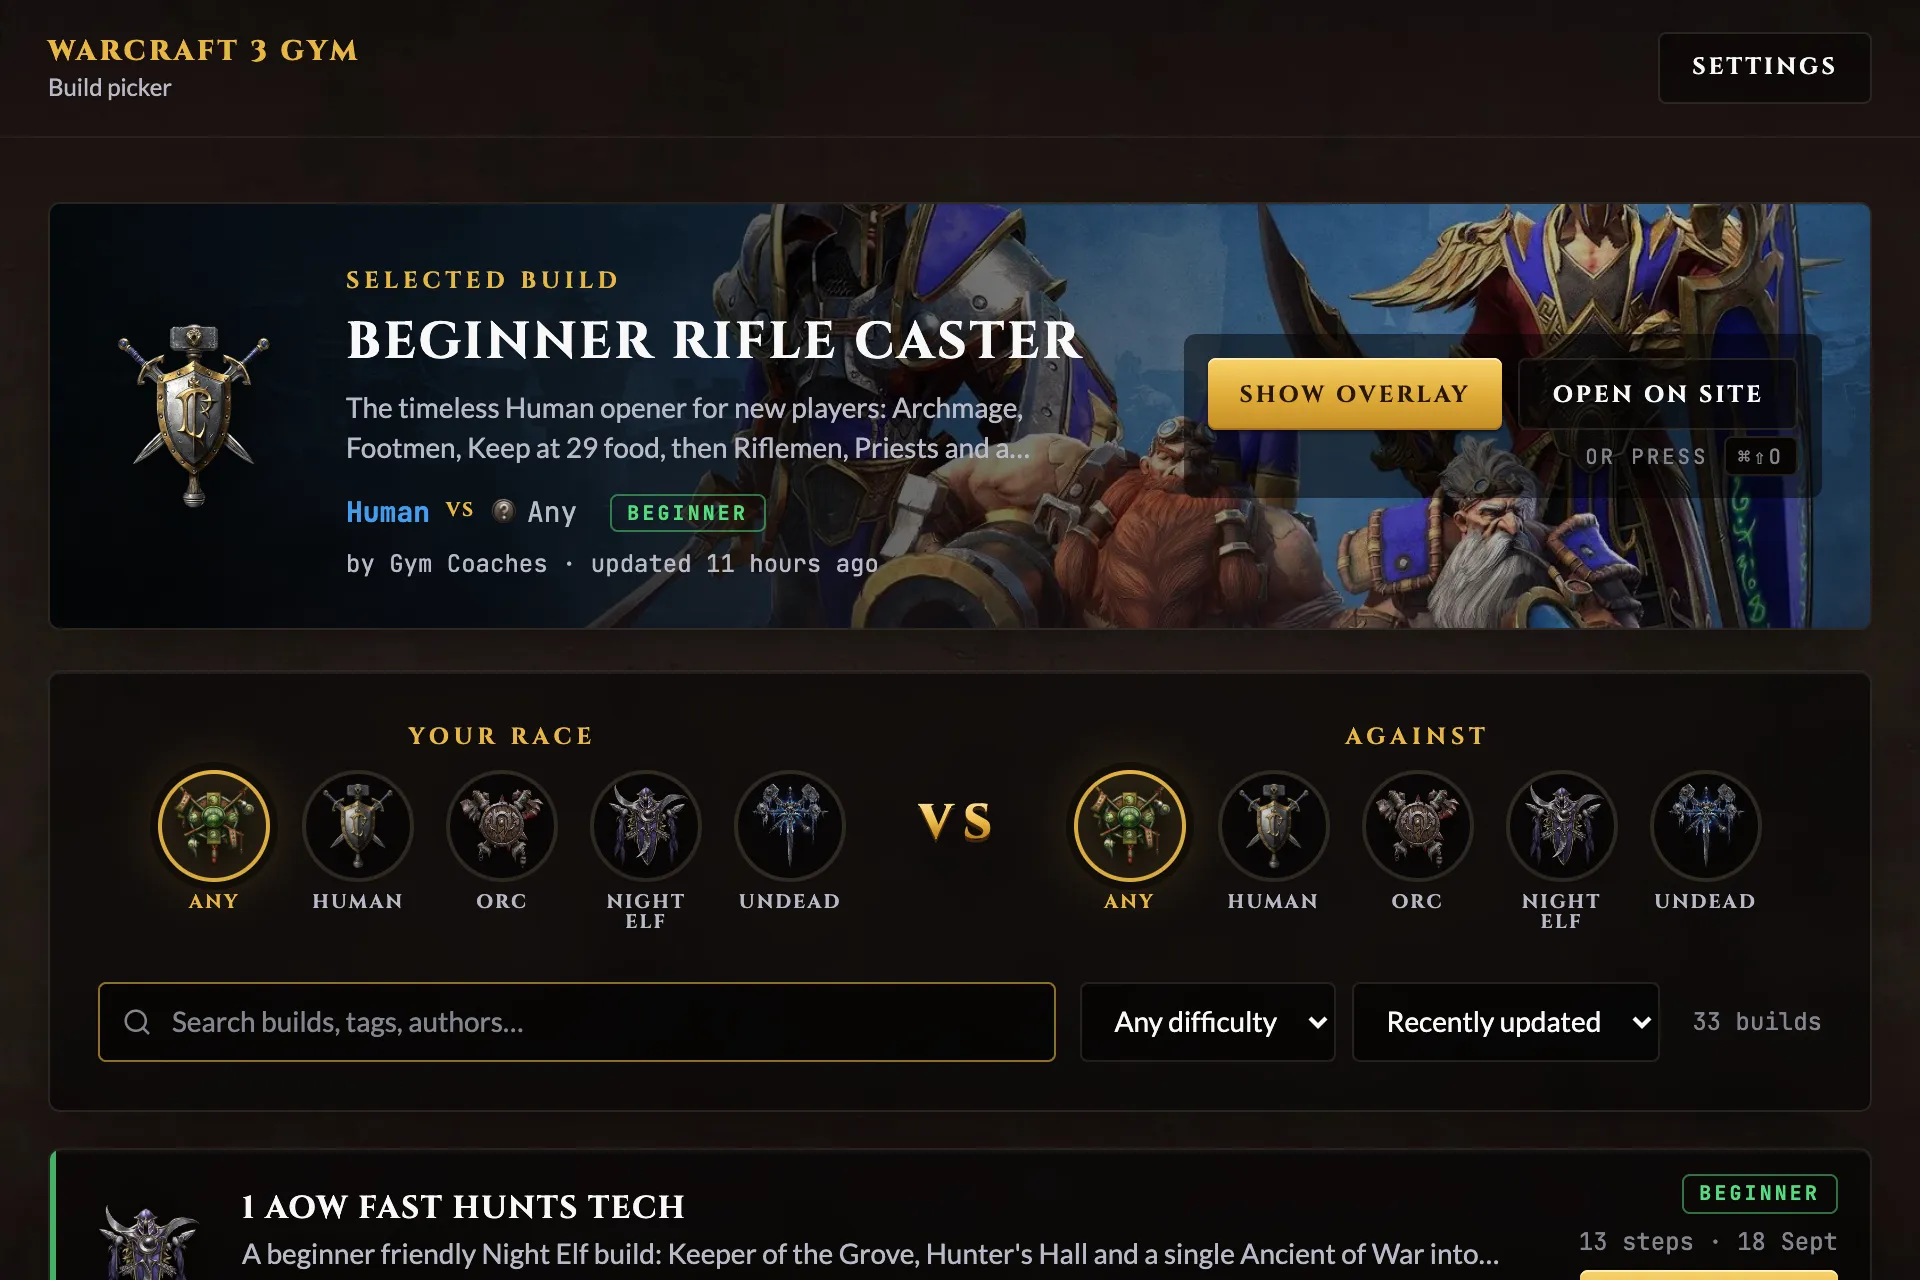
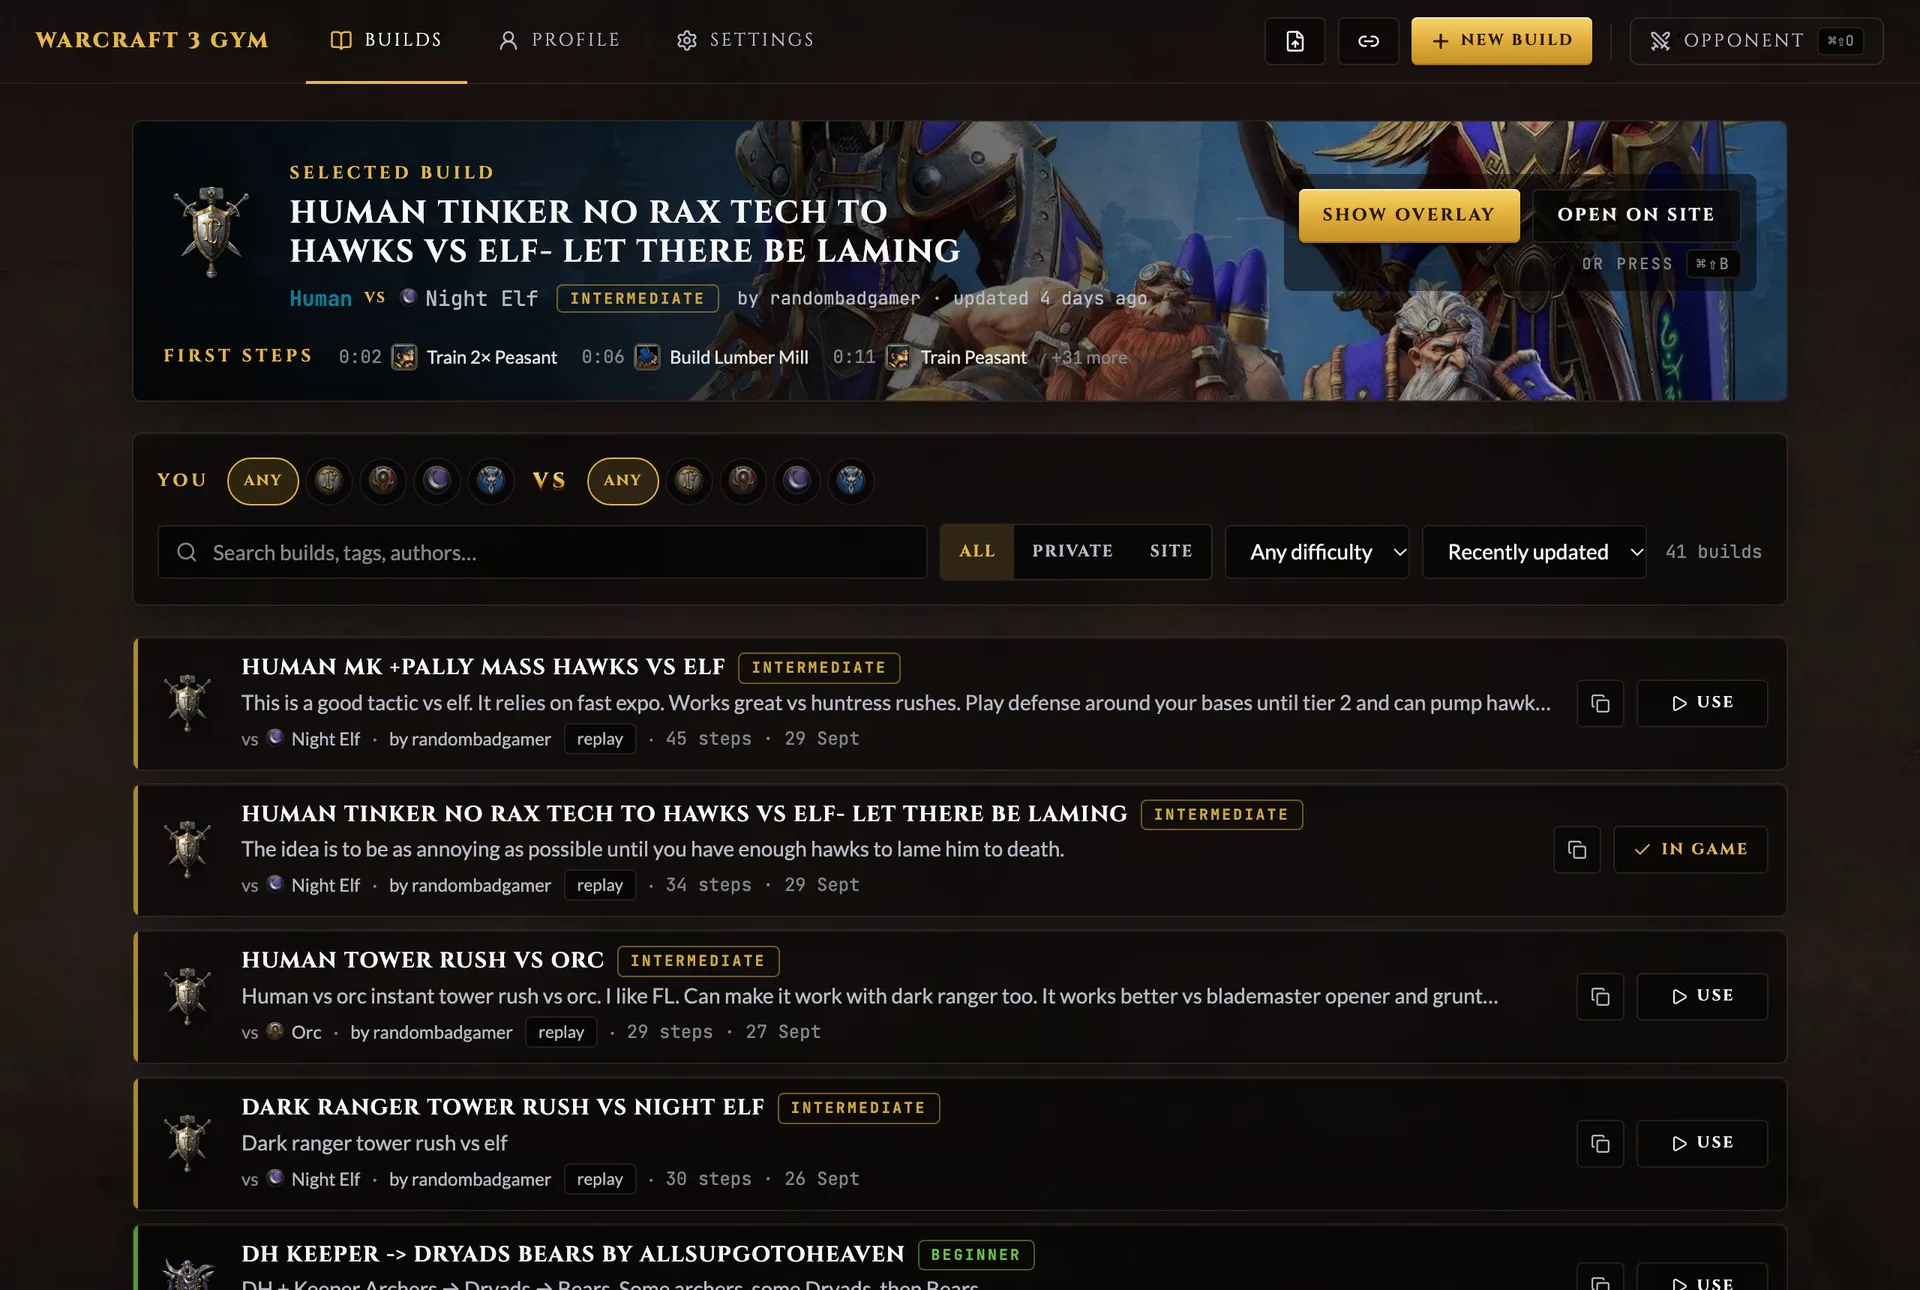
feat(overlay page): 0.6 opponent card and profile, new shortcuts and screenshots (#61)
A 'New in 0.6' section with the opponent window and the Profile tab
(screenshots from the real app, real stats under a made-up player
name), the BattleTag step, Shift+B / Shift+O in the shortcuts table,
a new picker screenshot with the tabs, and the tool card blurb.

diff --git a/src/app/(site)/tools/overlay/page.tsx b/src/app/(site)/tools/overlay/page.tsx
@@ -2,7 +2,7 @@ import type { Metadata } from "next";
 import { notFound } from "next/navigation";
 import Image from "next/image";
 import Link from "next/link";
-import { Apple, ChevronDown, Download, FileInput, Keyboard, Layers } from "lucide-react";
+import { Apple, ChevronDown, Download, FileInput, Keyboard, Layers, Swords, UserRound } from "lucide-react";
 import { Container } from "@/components/ui/Container";
 import { PageHeader } from "@/components/ui/PageHeader";
 import { ButtonLink } from "@/components/ui/Button";
@@ -14,8 +14,8 @@ export const metadata: Metadata = pageMetadata({
   path: "/tools/overlay",
   title: "Build order overlay",
   description:
-    "A desktop app that shows a Warcraft 3 Gym build order on top of Warcraft III while you play, with a clock and global shortcuts. Keep private builds and import them from a replay or a W3Champions match. Windows and macOS, beta.",
-  shareDescription: "Float any build order over the game, with a play-along clock and global shortcuts.",
+    "A desktop app that shows a Warcraft 3 Gym build order on top of Warcraft III while you play, scouts your W3Champions opponent when a 1v1 starts, and shows your own strengths and weaknesses. Private builds, replay import, global shortcuts. Windows and macOS, beta.",
+  shareDescription: "Float any build order over the game, scout your W3Champions opponent and see what to work on.",
   images: [{ url: "/og/overlay.jpg", width: 1200, height: 630 }],
 });
 
@@ -37,15 +37,31 @@ const POINTS = [
   },
 ];
 
+/** What 0.6 added: the opponent card and your profile, from public W3Champions data. */
+const SCOUTING = [
+  {
+    Icon: Swords,
+    title: "Know who you are facing",
+    body: "Set your BattleTag once. When a W3Champions 1v1 starts, the opponent window opens with a few tags to act on (wins fights, weak on this map, always opens Demon Hunter), your win chance, their form, their record against your race and on this map, their usual heroes and how they play.",
+  },
+  {
+    Icon: UserRound,
+    title: "Know your own game",
+    body: "The Profile tab turns your last two seasons into strengths and things to work on: matchups, best and worst maps, form, how you do in short and long games, your heroes and play style. Pick any race you play, Random included.",
+  },
+];
+
 const STEPS = [
   "Install the app and open it. The picker window lists every build on the site.",
   "Pick a build and click Show overlay, or press the toggle shortcut. The panel floats on top of the game.",
   "Run Warcraft III in windowed or borderless mode. Exclusive fullscreen hides every other window, including the overlay.",
   "At the match's 0:00, press play. The current step highlights as the clock runs; use next and previous if it drifts.",
+  "Optional: add your W3Champions BattleTag in Settings to get the opponent card in your 1v1s and your own Profile.",
 ];
 
 const SHORTCUTS = [
-  ["Toggle overlay", "Ctrl+Shift+O", "⌘⇧O"],
+  ["Toggle build order", "Ctrl+Shift+B", "⌘⇧B"],
+  ["Toggle opponent card", "Ctrl+Shift+O", "⌘⇧O"],
   ["Play / pause clock", "Ctrl+Shift+P", "⌘⇧P"],
   ["Reset clock", "Ctrl+Shift+R", "⌘⇧R"],
   ["Next step", "Ctrl+Shift+]", "⌘⇧]"],
@@ -81,7 +97,7 @@ export default async function OverlayPage() {
       <PageHeader
         kicker="Tools · Beta"
         title="Build order overlay"
-        lead="Stop alt-tabbing to check a build. This little app keeps the steps, food counts and clock on top of the game. Beta: expect rough edges, and tell us about them."
+        lead="Stop alt-tabbing to check a build. This little app keeps the steps, food counts and clock on top of the game, scouts your W3Champions opponent, and shows what to work on. Beta: expect rough edges, and tell us about them."
       >
         {release?.windowsInstaller ? (
           <ButtonLink href={release.windowsInstaller} size="md">
@@ -127,9 +143,9 @@ export default async function OverlayPage() {
           {/* Phones stack the picker under the game shot; wider screens tuck it over the corner */}
           <Image
             src="/overlay/picker.webp"
-            alt="The overlay's build picker window: race filters, search and the list of builds with a Use in game button on each."
+            alt="The overlay's picker window: Builds, Profile and Settings tabs, the selected build with its first steps, race filters, search and the list of builds."
             width={1920}
-            height={1280}
+            height={1290}
             sizes="(max-width: 640px) 100vw, 24rem"
             className="mt-4 h-auto w-full rounded border border-line shadow-[0_24px_60px_-12px_rgba(0,0,0,.95)] sm:absolute sm:-bottom-16 sm:right-[-3%] sm:mt-0 sm:w-[24rem]"
           />
@@ -147,6 +163,48 @@ export default async function OverlayPage() {
             </li>
           ))}
         </ul>
+
+        <section aria-labelledby="scouting-heading" className="mt-16">
+          <p className="kicker">New in 0.6</p>
+          <h2 id="scouting-heading" className="mt-2 font-display text-xl font-bold uppercase tracking-[0.06em] text-fg sm:text-2xl">
+            Scout the opponent, then your own game
+          </h2>
+          <div className="mt-6 grid items-start gap-8 lg:grid-cols-[18rem_1fr]">
+            <figure className="mx-auto w-full max-w-[18rem] lg:row-span-2">
+              <Image
+                src="/overlay/opponent-card.webp"
+                alt="The opponent window during a W3Champions 1v1: tags such as Wins fights and Weak on Hammerfall, a 42% win chance, recent form, records against your race and on the map, record by game length, first heroes and play style."
+                width={720}
+                height={1394}
+                sizes="18rem"
+                className="h-auto w-full rounded border border-line shadow-[0_24px_60px_-20px_rgba(0,0,0,.9)]"
+              />
+              <figcaption className="mt-2 text-xs text-faint">The opponent window, opened by itself when the game starts.</figcaption>
+            </figure>
+            <ul className="grid gap-4 sm:grid-cols-2">
+              {SCOUTING.map(({ Icon, title, body }) => (
+                <li key={title} className="panel p-5">
+                  <Icon size={20} className="text-arcane" />
+                  <p className="mt-2 font-display text-[0.8rem] font-bold uppercase tracking-[0.08em] text-fg">{title}</p>
+                  <p className="mt-1 text-sm text-muted">{body}</p>
+                </li>
+              ))}
+            </ul>
+            <figure>
+              <Image
+                src="/overlay/profile.webp"
+                alt="The Profile tab: MMR line, strengths such as Strong vs Human and Strong early, things to work on such as Weak on Hammerfall and Fades late, matchups, best and worst maps and recent form."
+                width={1920}
+                height={1009}
+                sizes="(max-width: 1024px) 100vw, 48rem"
+                className="h-auto w-full rounded border border-line shadow-[0_24px_60px_-20px_rgba(0,0,0,.9)]"
+              />
+              <figcaption className="mt-2 text-xs text-faint">
+                The Profile tab. Everything comes from public W3Champions data; only W3Champions 1v1 games are detected.
+              </figcaption>
+            </figure>
+          </div>
+        </section>
 
         <div className="mt-14 grid gap-10 lg:grid-cols-[1.2fr_1fr]">
           <section>
@@ -196,7 +254,7 @@ export default async function OverlayPage() {
                 ))}
               </tbody>
             </table>
-            <p className="mt-3 text-xs text-faint">Every combo can be changed in the app&apos;s Settings.</p>
+            <p className="mt-3 text-xs text-faint">Every combo can be changed in the app&apos;s Settings tab.</p>
           </More>
 
           <More title="Your own private builds">
@@ -214,7 +272,7 @@ export default async function OverlayPage() {
 
           <More title="Make a build from a replay or a W3Champions match">
             <p>
-              Import replay (top bar) reads a <span className="font-mono text-xs text-fg">.w3g</span> file and lists both players; pick the one you were. Import up to trims how much of the game becomes steps (eight minutes by default), and you can leave upgrades and items out. Open in editor lands the draft in the build editor to tidy up. From W3Champions does the same from a match link: the replay is fetched from their public API, nothing is uploaded.
+              Import replay (in the header of the Builds tab) reads a <span className="font-mono text-xs text-fg">.w3g</span> file and lists both players; pick the one you were. Import up to trims how much of the game becomes steps (eight minutes by default), and you can leave upgrades and items out. Open in editor lands the draft in the build editor to tidy up. From W3Champions does the same from a match link: the replay is fetched from their public API, nothing is uploaded.
             </p>
             <p className="mt-3">
               Windows keeps replays in Documents\Warcraft III\BattleNet\&lt;account&gt;\Replays; on macOS they are in ~/Library/Application Support/Blizzard/Warcraft III, with the last game at Replay/LastReplay.w3g.

diff --git a/src/lib/tools.ts b/src/lib/tools.ts
@@ -36,7 +36,7 @@ export const GYM_TOOLS: Tool[] = [
     Icon: MonitorPlay,
     title: "Build order overlay",
     badge: "Beta",
-    body: "A desktop app that floats a build order over Warcraft III while you play, with a clock and global shortcuts. Keeps your private builds and turns a replay or a W3Champions match into one.",
+    body: "A desktop app that floats a build order over Warcraft III while you play, scouts your W3Champions opponent when a 1v1 starts and shows your own strengths and weaknesses. Keeps your private builds and turns a replay or a W3Champions match into one.",
   },
 ];
 
